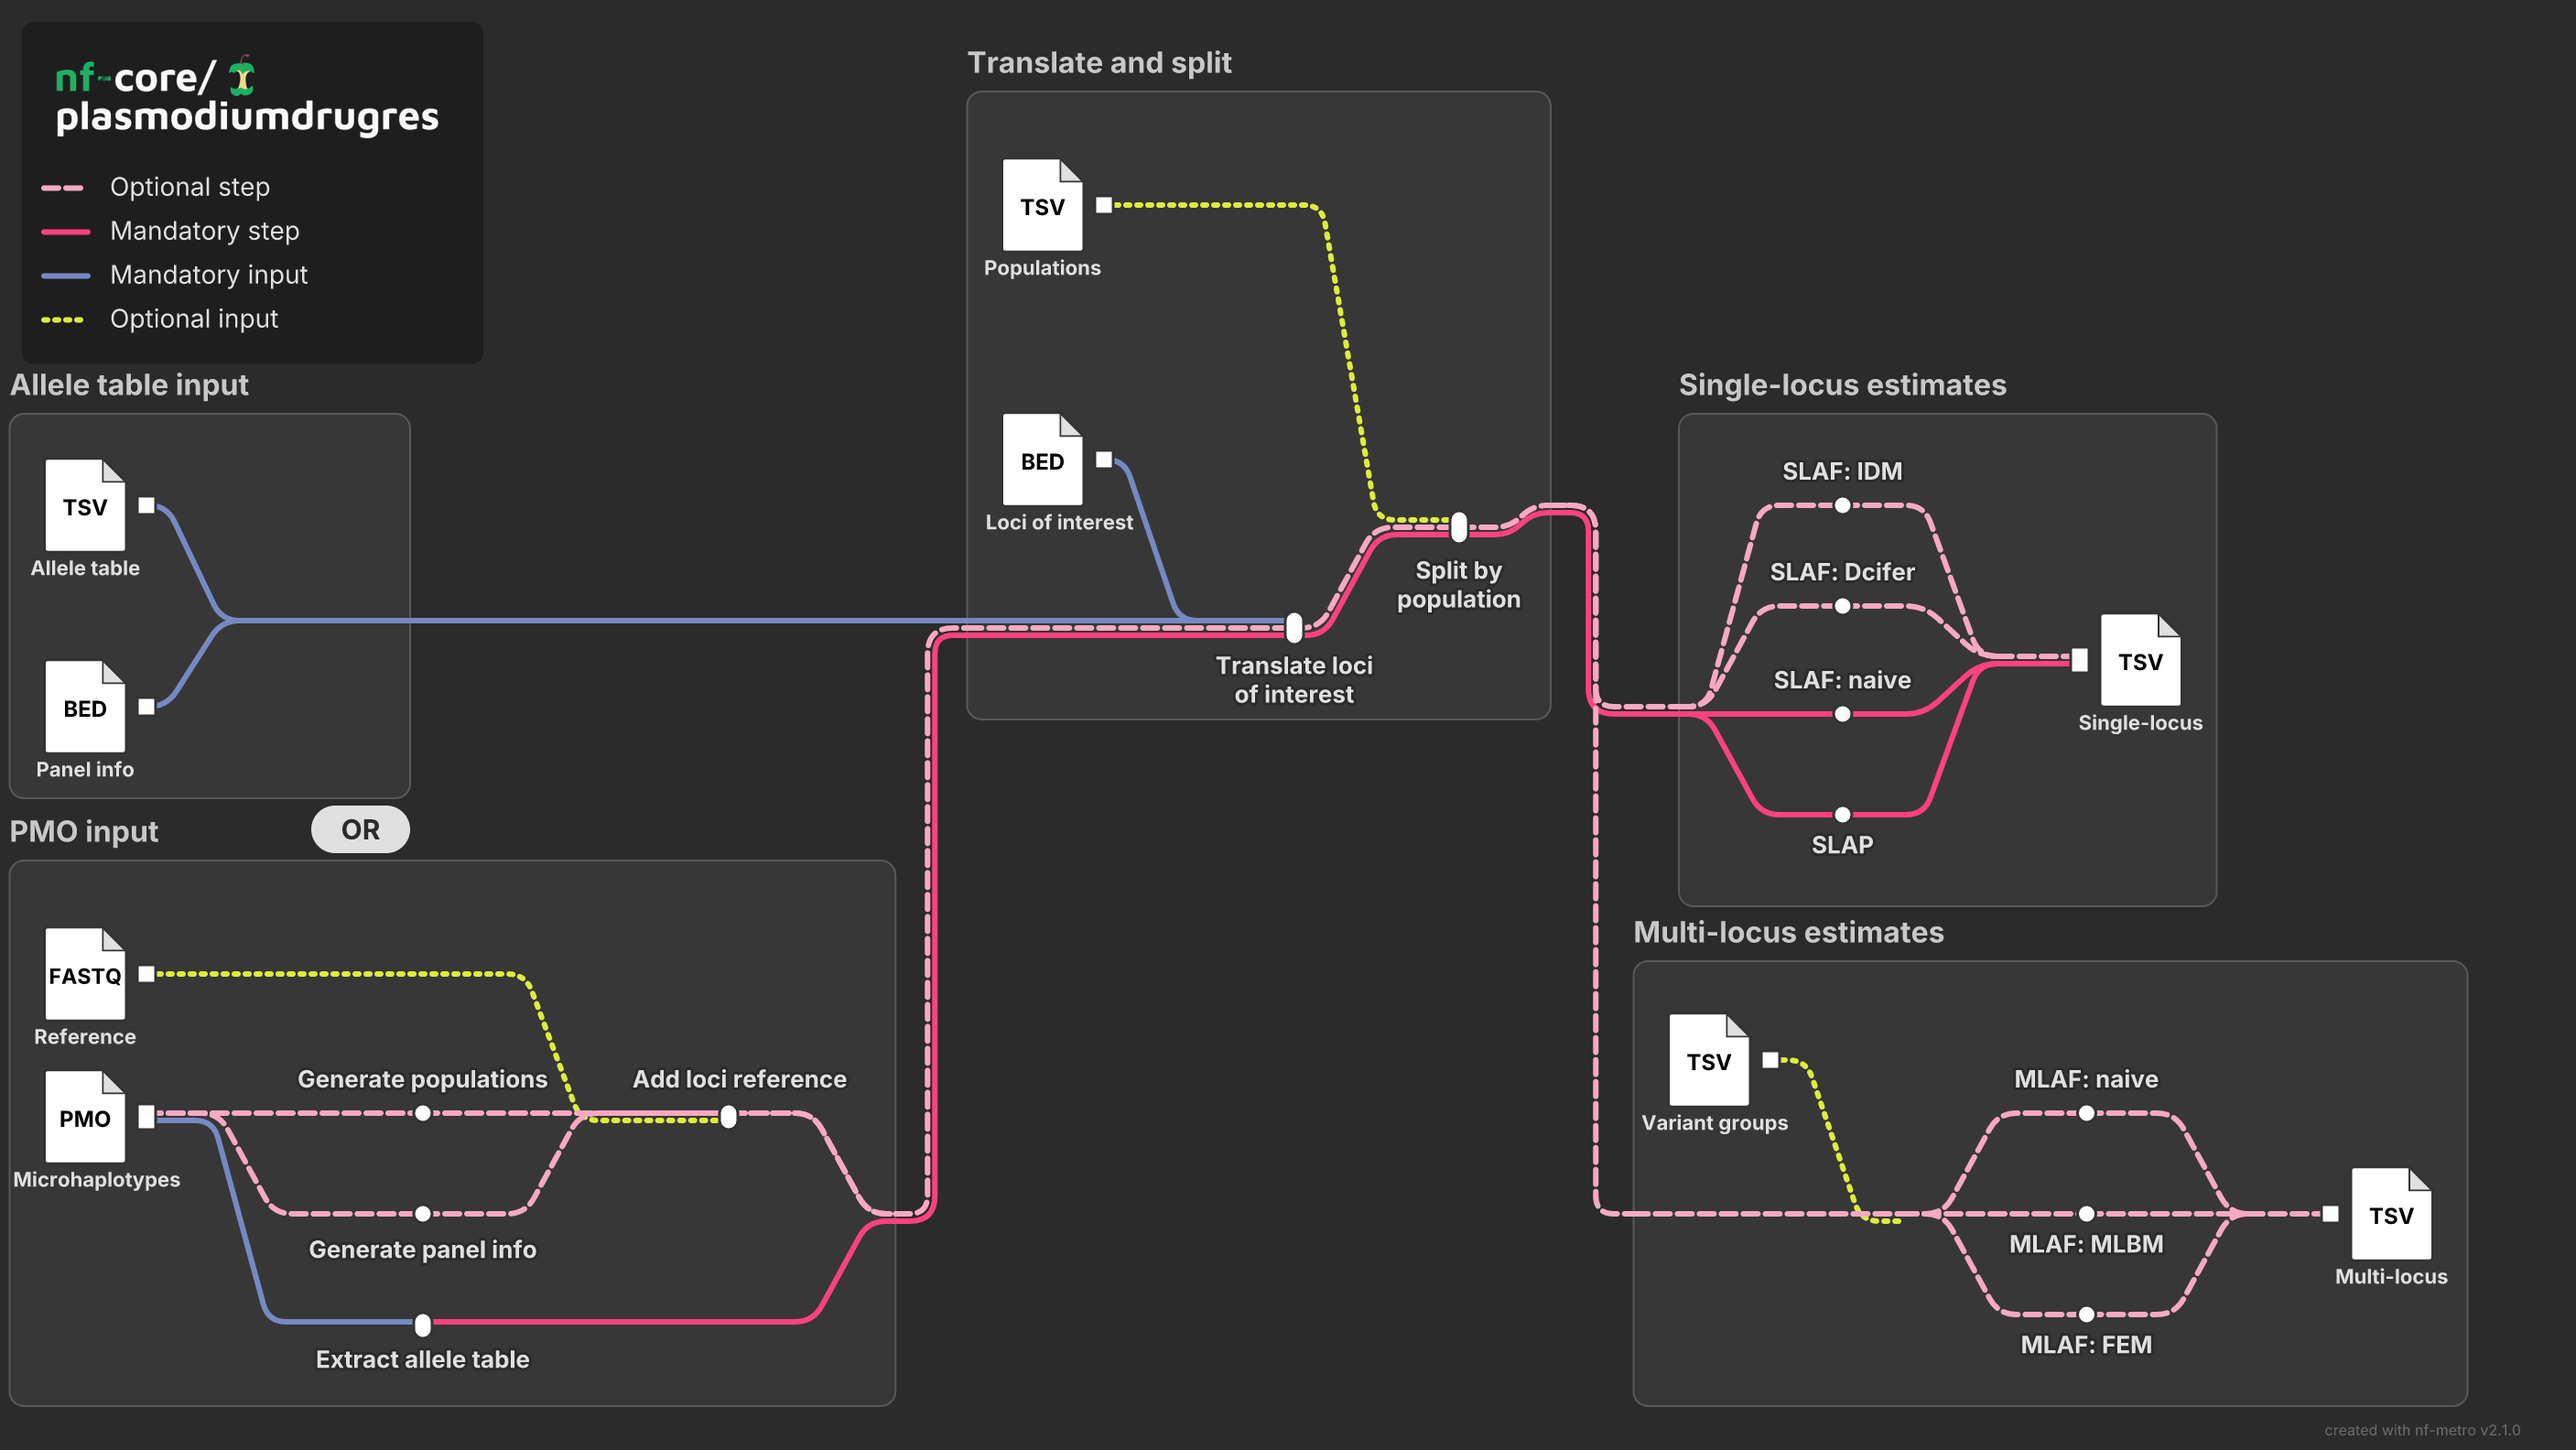
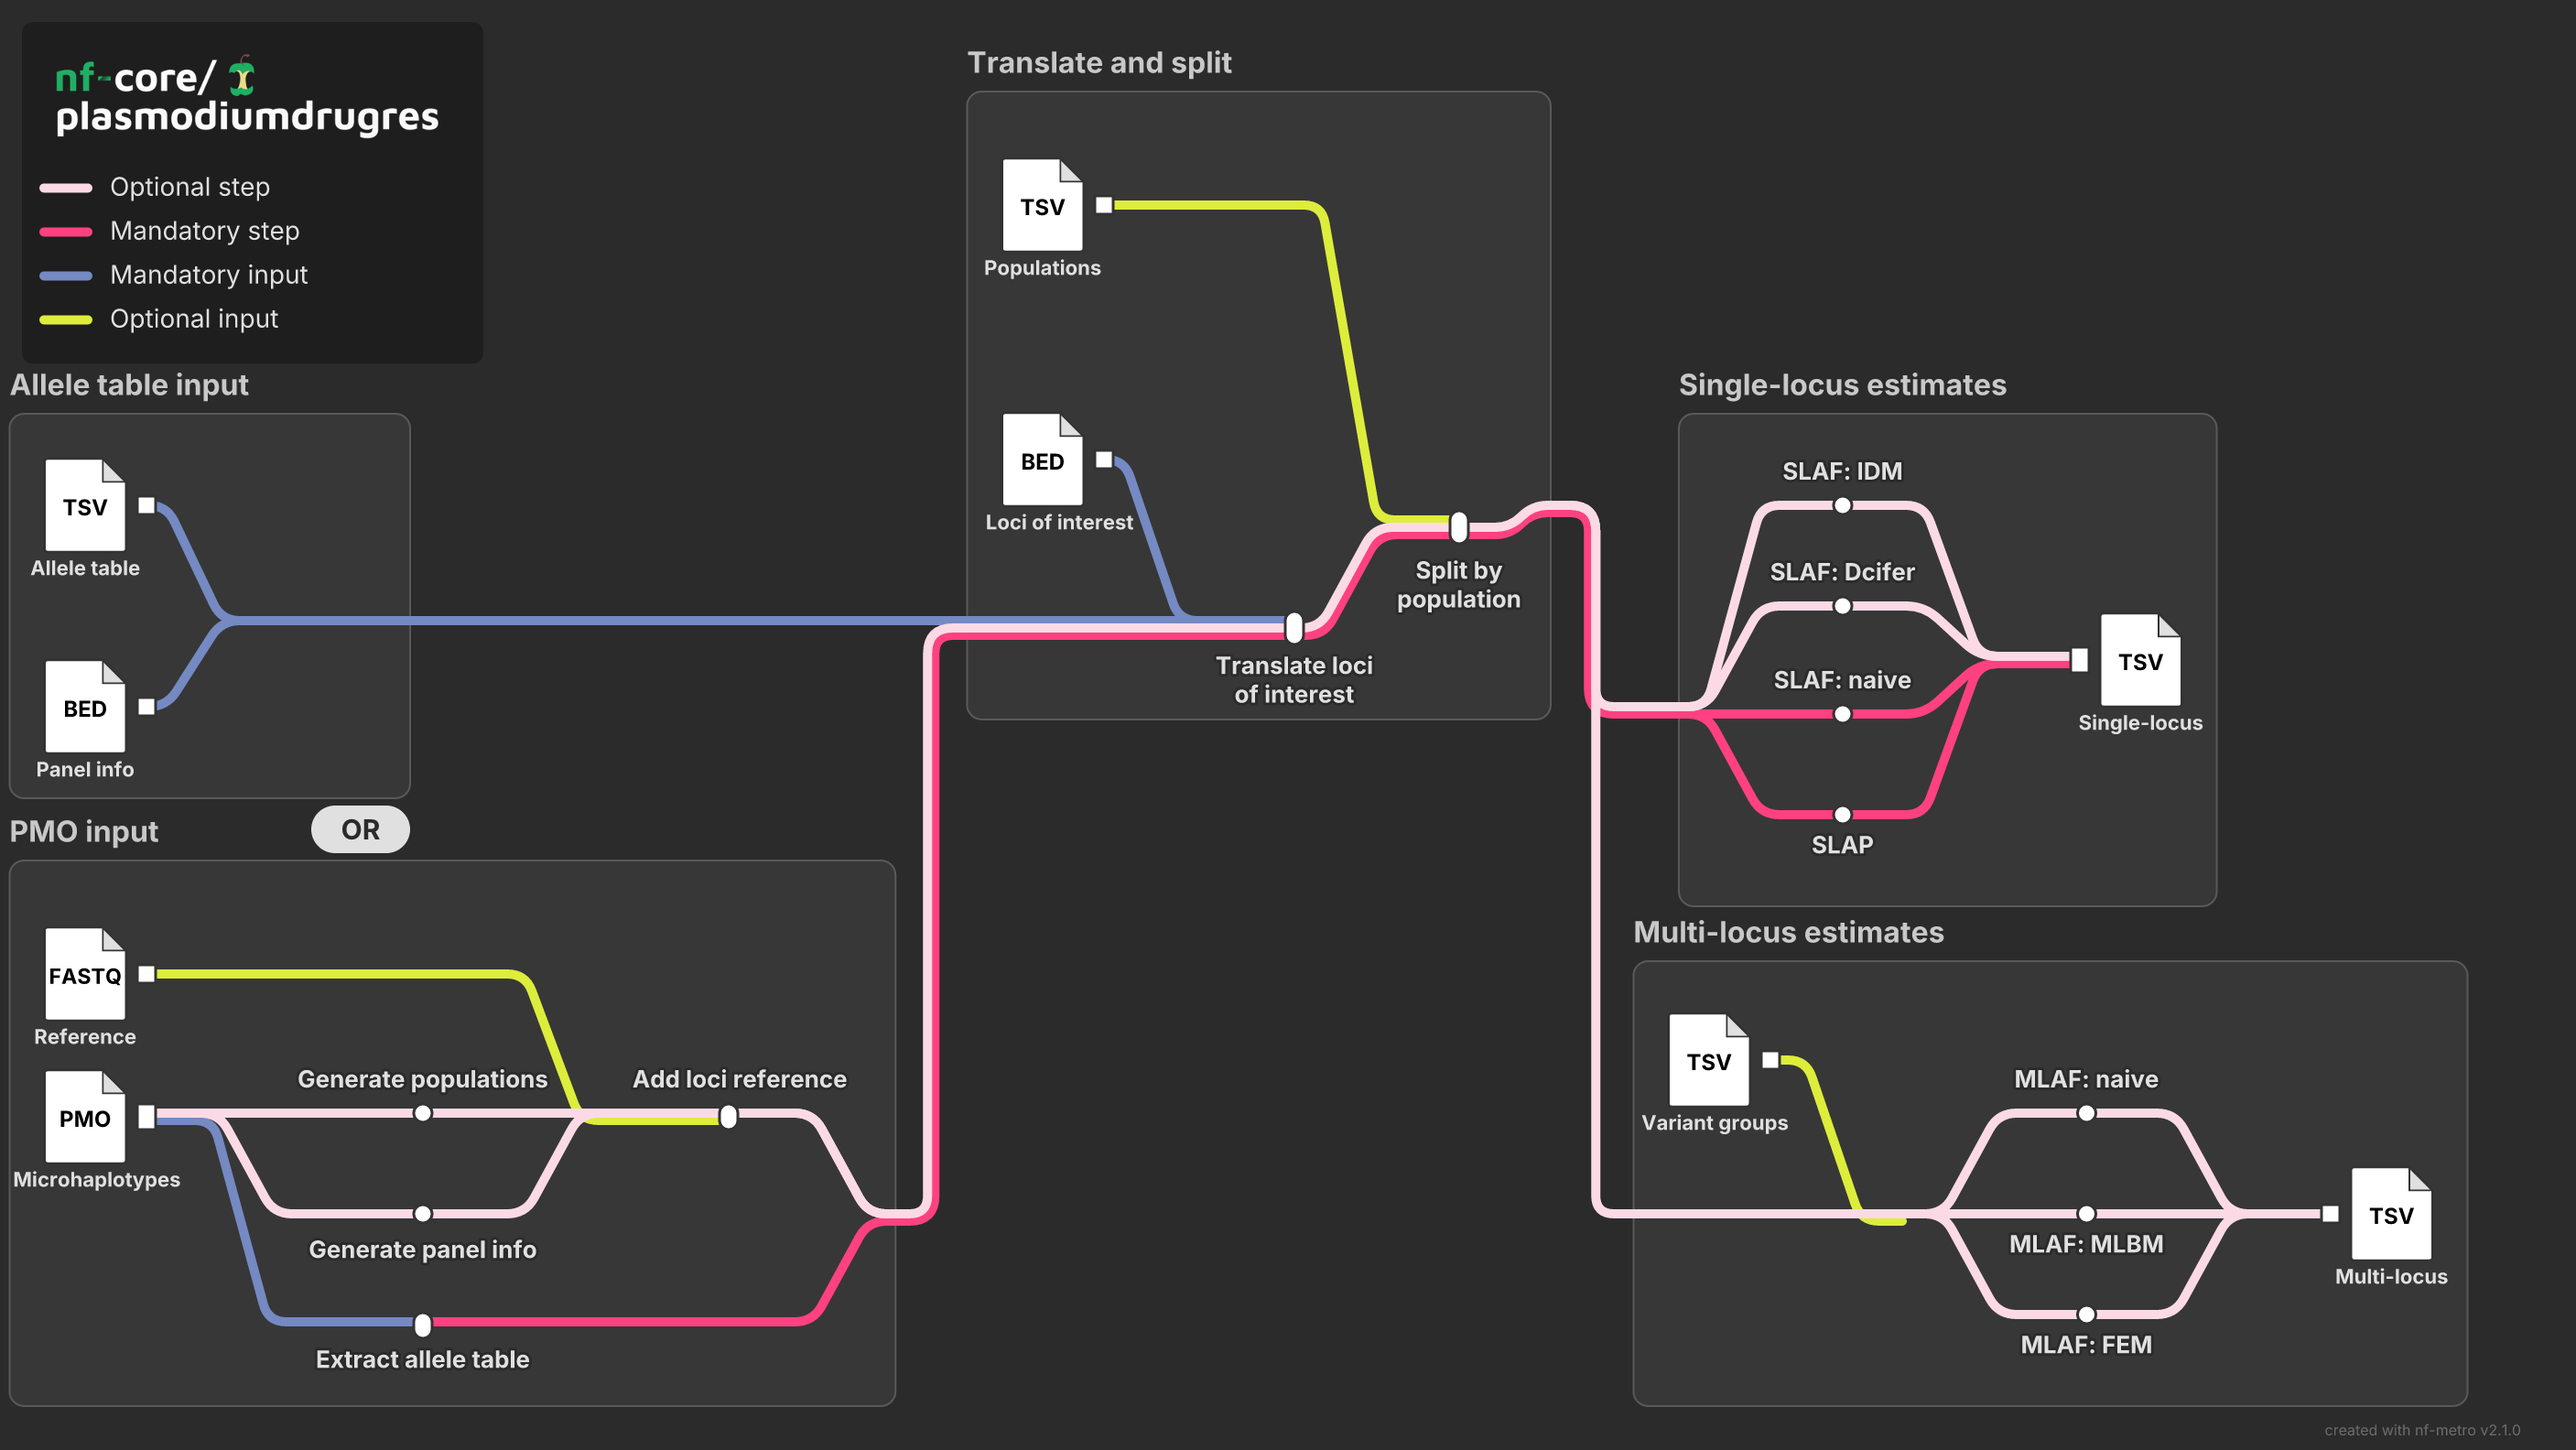
make lines on metromap thicker

diff --git a/assets/plasmodiumdrugres_metromap_animate.py b/assets/plasmodiumdrugres_metromap_animate.py
@@ -50,6 +50,7 @@ END_PAUSE = 1.5  # seconds every ball is hidden before the loop restarts
 LINE_PRIORITY = ["step", "input", "opt", "optin"]
 BALL_RADIUS = 5.0
 ICON_SCALE = 1.6
+LINE_WIDTH_SCALE = 5 / 3  # nfcore theme draws 3 px lines
 CAPTION_FONT_SCALE = 0.85  # fraction of the station label size; nf-metro uses 0.6
 LOGO_SCALE = 0.6  # logo size in the stacked legend, relative to nf-metro's side-by-side size
 # (station, line) whose vertical slot should match another line's at that
@@ -220,6 +221,7 @@ def _enlarge_icons() -> None:
             terminus_width=theme.terminus_width * ICON_SCALE,
             terminus_height=theme.terminus_height * ICON_SCALE,
             terminus_fold_size=theme.terminus_fold_size * ICON_SCALE,
+            line_width=theme.line_width * LINE_WIDTH_SCALE,
         )
 
     svg._scale_theme_fonts = scale_theme_fonts
